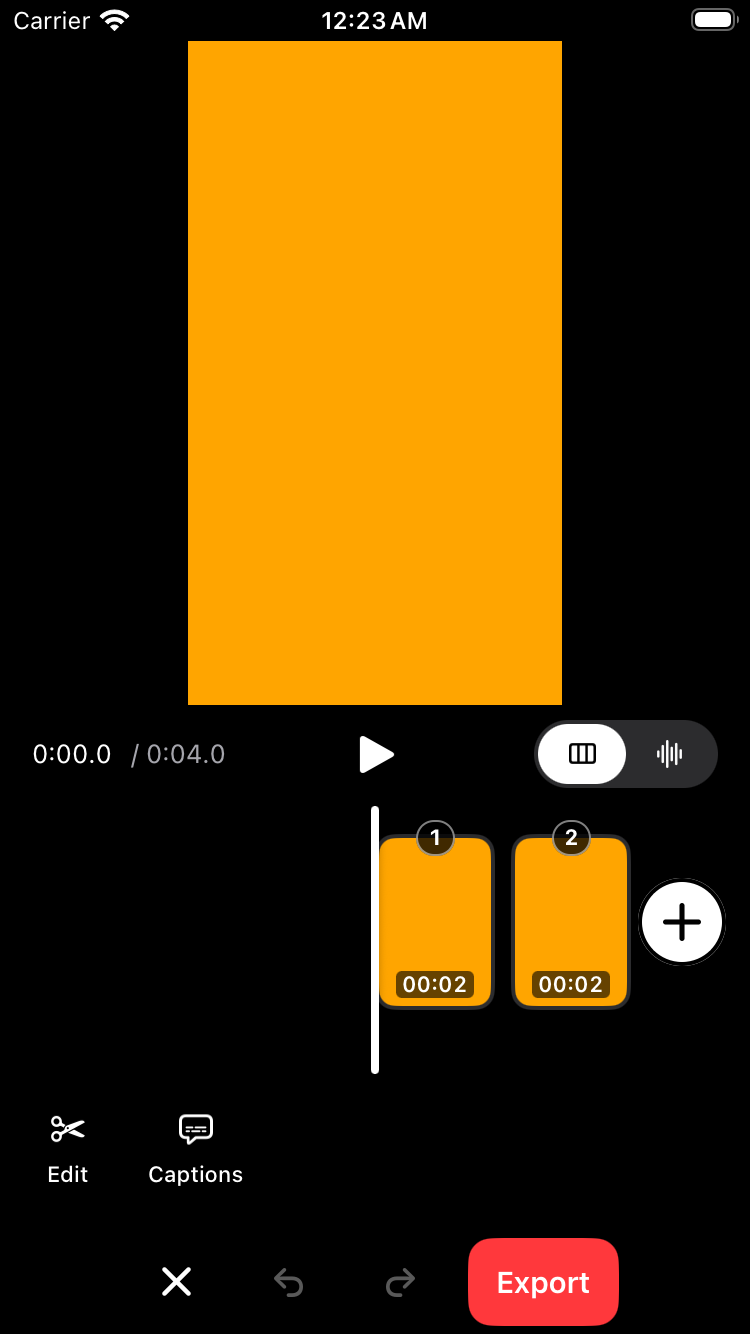
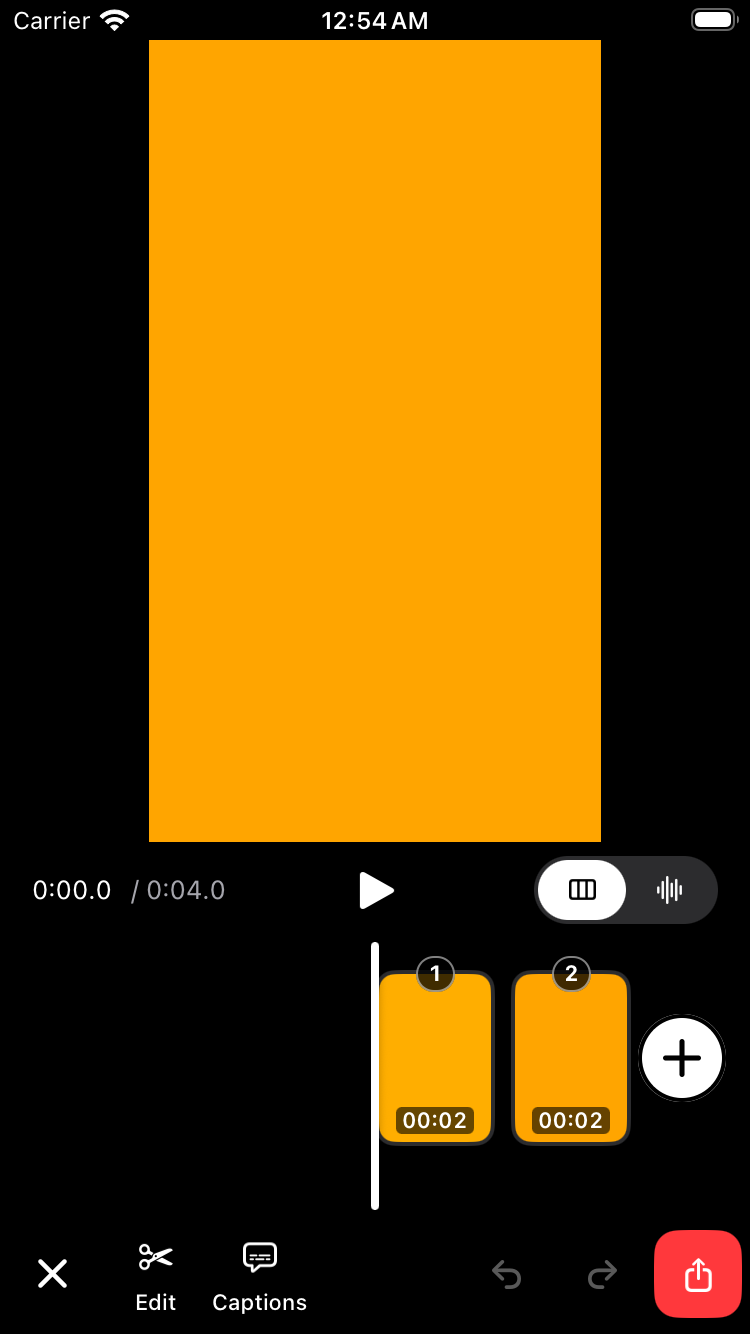
docs: record compact toolbar layout and validation

diff --git a/docs/one-handed-navigation.md b/docs/one-handed-navigation.md
@@ -13,10 +13,12 @@ The first PR is one cohesive change with guidance, implementation and verificati
 
 1. Establish the repository and PR review rule before changing UI.
 2. Move recorder Close/Export, editor Close/Undo/Redo/Export, export Close and app-owned permission
-   actions into lower control areas. Move app-owned screen-recording Stop lower. Expose recorder
-   camera tools in an expandable inline lower row that leaves Record available. Preserve the
-   existing callbacks and operation guards; the shared Export button has at least a 44-point
-   target. This PR does not introduce a shared footer architecture or redesign destination logic.
+   actions into lower control areas. Editor commands and contextual tools share one toolbar;
+   caption typing replaces it with Cancel, text entry and Done. Move app-owned screen-recording
+   Stop lower. Expose recorder camera tools in an expandable inline lower row that leaves Record
+   available. Preserve the existing callbacks and operation guards; Export has at least a
+   44-point target, including the editor's compact icon. This PR does not introduce a shared
+   footer architecture or redesign destination logic.
 3. Open an existing library draft in the editor; New recording opens the camera. Recording more
    from the editor remains part of the same draft. Preserve explicit host/deep-link recording
    requests instead of treating every existing identifier as a library-open request.
@@ -115,14 +117,67 @@ remaining gaps. Source inspection and unit tests cannot establish physical thumb
 | Exceptions and overlap                          | Separate OS-owned dialogs/native chrome from app-owned controls. Record rationale, reachable fallback and linked follow-up for app exceptions.                                     | #104 export/keyboard/long-destination/toast combinations and all deferred sheets.                     |
 | Rule carried forward                            | AGENTS rule and PR template apply before UI implementation; every future PR declares applicability or N/A.                                                                         | Review evidence stays with each future UI change.                                                     |
 
-## First test build: observed validation
+## Compact editor toolbar revision
 
-The test build uses application source at `dce8303` on
+Feedback on the initial `dce8303` build identified wasted vertical space: contextual tools and
+global commands occupied separate bottom rows. The revised editor combines them in one
+60-point toolbar, with the safe-area inset applied once:
+
+**Close · contextual tools · Undo · Redo · Export**
+
+This replaces the initial 76-point tools area plus 52-point commands area, recovering 68 points
+for the preview and timeline. Contextual tools scroll horizontally in their available space;
+the four global commands retain fixed places and at least 44-point targets. Export uses a compact
+icon with the same accessibility label. Caption typing replaces the entire toolbar with
+Cancel/text/Done above the keyboard. History and navigation callbacks, recorder controls and the
+export screen's behavior are unchanged by this revision.
+
+**Remaining horizontal-tool exception:** tools that do not fit require a horizontal swipe in the
+lower contextual region. This preserves media space and touch-target size without adding another
+row, but there is no visible tap-only alternative for revealing offscreen tools yet. That remains
+an exception for review under #310, alongside precision gesture alternatives; a lower menu or
+step controls are possible follow-ups. Verify access to every tool, including Done, at narrow
+widths, supported text sizes and in RTL, without a scroll activating an adjacent command.
+
+### Revision validation (`3c52200`)
+
+All seven source checks passed again: root/embed/client TypeScript, full lint, protocol generation,
+the embed bundle/dependency check, and Jest (147 suites / 2,100 tests passed; the same opt-in
+integration suite's eight tests skipped locally).
+
+Native iOS 26 accessibility checks measured the same 68-point gain on both phone layouts:
+
+- **375 × 667:** preview height increased from 333 to 401 points. Close, Undo, Redo and Export
+  share `y = 615`, each an actual 44 × 44 target. Rotate → Undo → Redo → Undo and two-clip native
+  export completed through the integrated controls.
+- **440 × 956:** preview height increased from 546 to 614 points. The same commands remain at
+  `y = 870` in Main, Clip, Captions and Speed modes, including maximum accessibility text. A
+  native swipe on the contextual toolbar exposed later tools; a speed change and Undo passed.
+- Caption entry still replaces the whole toolbar in source, but its native keyboard state
+  remains unverified: selecting the rendered caption word has no native accessibility node.
+  Track native caption selection and its keyboard retest under #310. No coordinate fallback
+  was used. The existing transport time display also overflows at maximum text; this remains
+  a separate open layout finding, while the integrated toolbar fits.
+
+The signed Release from application commit `3c52200` was installed in place and launched on the
+requested iPhone, its process verified, and the global device lease returned `released` before
+handoff. No physical test/capture runner or debugger was started. Build metadata's dirty flag
+reflects concurrent documentation edits; application source hashes stayed unchanged through
+both builds. Physical grip/Record/Stop and the broader acceptance work remain user/device checks.
+
+| Initial stacked toolbar                                                                    | Compact toolbar                                                                 |
+| ------------------------------------------------------------------------------------------ | ------------------------------------------------------------------------------- |
+| ![Initial separate tool and command rows](images/one-handed-navigation/editor-stacked.png) | ![Commands and tools in one row](images/one-handed-navigation/editor-after.png) |
+
+## Initial test build (`dce8303`): observed validation
+
+The initial test build uses application source at `dce8303` on
 [PR #327](https://github.com/mieweb/pulse/pull/327). The signed Release build was installed in
 place on the requested iPhone, launched without a debugger, and its running process verified.
 No drafts were removed and no physical test/capture runner was started. The shared device guard
 returned `released` before handoff. This establishes installation and launch, not physical
-left/right thumb reach or camera recording correctness.
+left/right thumb reach or camera recording correctness. The coordinates and results in this
+section describe that initial stacked-row layout, not the compact toolbar revision above.
 
 Source checks passed: root, embed and embed-client TypeScript; full lint; protocol generation;
 and the embed dependency/bundle check. Jest passed 147 suites and 2,100 tests, with the opt-in
@@ -148,12 +203,14 @@ Native accessibility checks used task-owned iOS 26 simulators and artificial loc
   after this check. The large system share sheet also opened and dismissed through its named
   system dismissal region; its lack of a Close/Cancel button remains an OS-owned limitation.
 
-Before is the cached previous #318 simulator build; after is this PR's application source. Both
-captures use the same synthetic two-clip draft on the small phone.
+Before is the cached previous #318 simulator build; after is the initial `dce8303` build with
+separate lower tool and command rows. Both captures use the same synthetic two-clip draft on the
+small phone. These captures are retained as initial-build evidence, separately from the compact
+toolbar above.
 
-| Before                                                                        | After                                                                           |
-| ----------------------------------------------------------------------------- | ------------------------------------------------------------------------------- |
-| ![Editor commands at the top](images/one-handed-navigation/editor-before.png) | ![Editor commands at the bottom](images/one-handed-navigation/editor-after.png) |
+| Before                                                                        | After                                                                              |
+| ----------------------------------------------------------------------------- | ---------------------------------------------------------------------------------- |
+| ![Editor commands at the top](images/one-handed-navigation/editor-before.png) | ![Initial stacked lower commands](images/one-handed-navigation/editor-stacked.png) |
 
 [Expanded lower recorder tools](images/one-handed-navigation/recorder-tools.png) are captured
 separately. Android, physical grip/Record/Stop, live screen-recording combinations, caption

diff --git a/README.md b/README.md
@@ -81,9 +81,10 @@ flowchart TB
 
 - Open an existing library draft directly in the editor; New recording opens the camera. Use the
   editor's Add menu to record more into the same draft.
-- Recorder Close/Export, editor Close/Undo/Redo/Export and export Close are in lower control
-  areas. See the [one-handed navigation audit](docs/one-handed-navigation.md) for scope,
-  remaining gesture/sheet work and validation requirements.
+- Editor Close, contextual tools, Undo/Redo and compact Export share one lower toolbar.
+  Recorder Close/Export and export Close are lower too. See the
+  [one-handed navigation audit](docs/one-handed-navigation.md) for scope, remaining gesture/sheet
+  work and validation requirements.
 - Per-clip trim and transforms are saved as settings over the untouched source and rendered at export
 - The editor has **one sticky + at the right edge of the clip row**, visible in both views and while editing a clip. **Clips (beat list)** inserts at the nearest clip boundary without splitting: before the clip in its first half, after it in its second half, and after it at the midpoint. **Timeline** inserts at the exact playhead. At the end, either view appends a new clip/beat to the existing Pulse.
 - In Timeline, adding X inside A produces **A-left → X → A-right**, with both halves sharing the source video. One Undo restores A and removes X; Redo restores the insertion. Canceling or failing before the first new clip commits leaves A unsplit.
